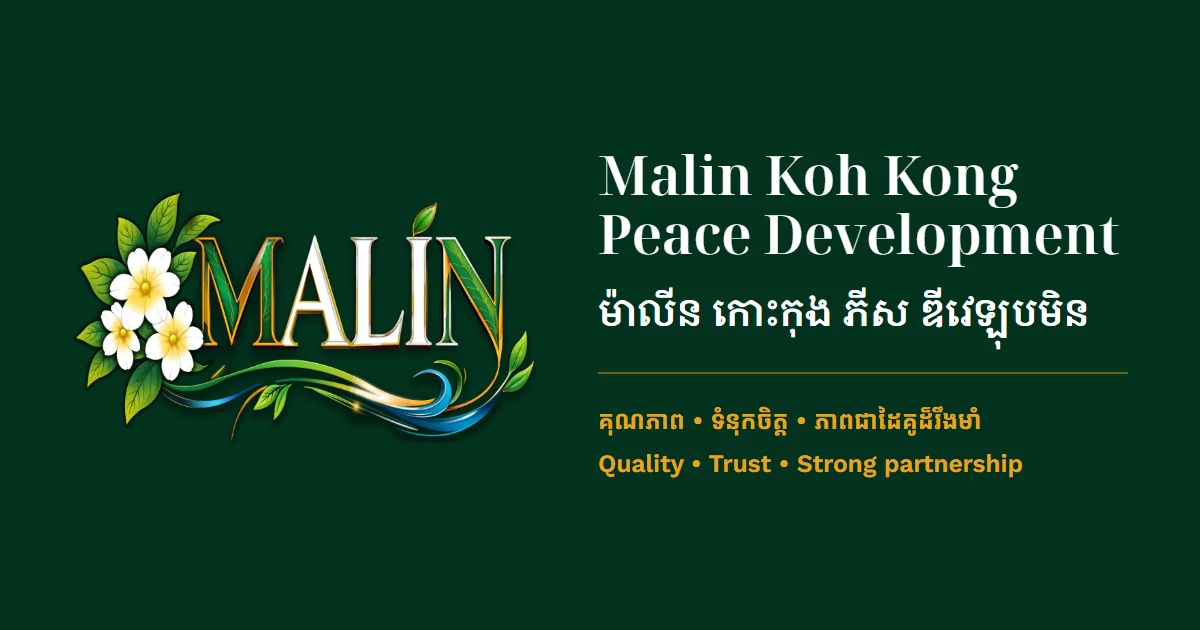
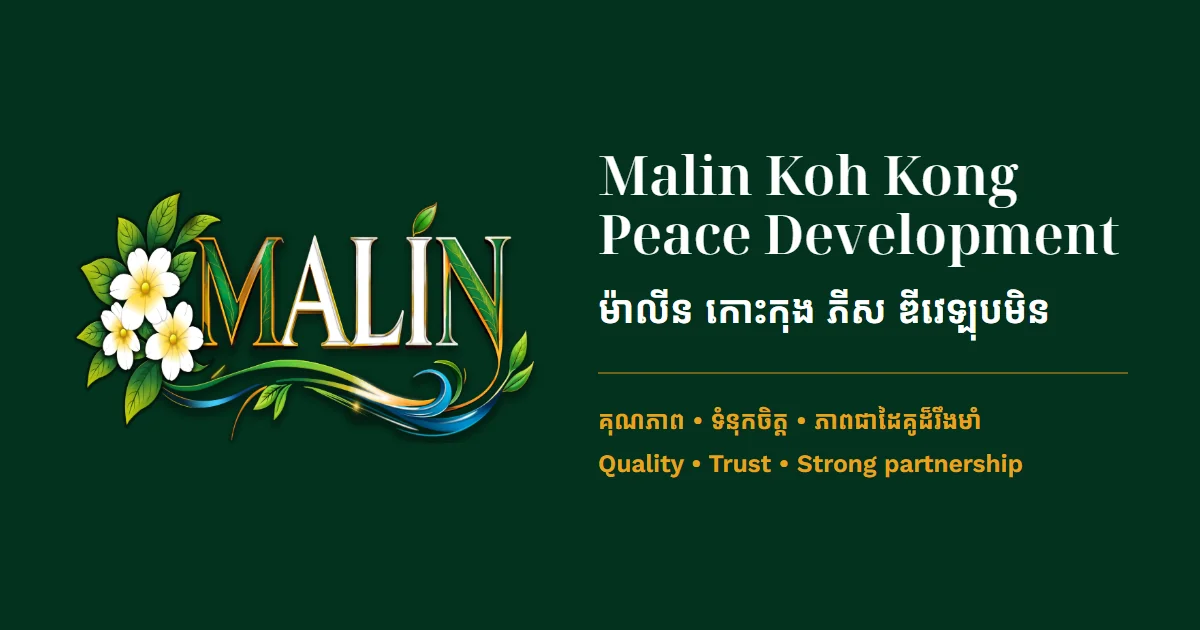
perf: set Khmer headings in Kantumruy Pro
The user's decision: Khmer headings now use Kantumruy Pro, the body font, instead of Noto
Serif Khmer (32 KB), which was the last thing keeping Khmer pages under Lighthouse 95.
Latin headings keep Noto Serif Display. The share card's Khmer name uses the same face.

Lighthouse (mobile), Khmer pages: home 93-94 -> 96, contact 95 -> 99, organisation 95 -> 97.

Changed region(s): [[0.4933, 0.4524, 0.925, 0.5429]]

diff --git a/src/styles/_fonts.scss b/src/styles/_fonts.scss
@@ -23,9 +23,8 @@ $khmer: U+1780-17FF, U+19E0-19FF, U+200C-200D, U+25CC;
 @include face('Kantumruy Pro', 'kantumruy-pro-latin-ext', 400 700, $latin-ext);
 @include face('Kantumruy Pro', 'kantumruy-pro-khmer', 400 700, $khmer);
 
-// Headings only ever use 600, so these are static 600 instances of the variable fonts
+// Latin headings only ever use 600, so these are static 600 instances of the variable font
 // (fontTools instancer): a third of the size. Need another weight? Instance it from the
 // variable font as a new file; don't widen this range.
 @include face('Noto Serif Display', 'noto-serif-display-latin-600', 600, $latin);
 @include face('Noto Serif Display', 'noto-serif-display-latin-ext-600', 600, $latin-ext);
-@include face('Noto Serif Khmer', 'noto-serif-khmer-khmer-600', 600, $khmer);

diff --git a/src/styles/_tokens.scss b/src/styles/_tokens.scss
@@ -17,7 +17,9 @@
   --c-success: #1e6b3a; // form confirmation only (6.6:1 on white)
 
   // Typefaces
-  --font-display: 'Noto Serif Display', 'Noto Serif Khmer', Georgia, 'Times New Roman', serif;
+  // Khmer headings use Kantumruy Pro (as body text): Noto Serif Khmer cost Khmer pages their
+  // Lighthouse 95. Latin headings keep Noto Serif Display.
+  --font-display: 'Noto Serif Display', 'Kantumruy Pro', Georgia, 'Times New Roman', serif;
   --font-body:
     'Kantumruy Pro', system-ui, -apple-system, 'Segoe UI', Roboto, 'Helvetica Neue', Arial,
     sans-serif;

diff --git a/.claude/skills/web-view-angular/SKILL.md b/.claude/skills/web-view-angular/SKILL.md
@@ -226,11 +226,12 @@ already-translated template changes its extracted source (see Languages).
 - Brand colours come from the client's organisation chart: `--c-brand` #03321e (header, hero,
   headings, links, buttons) and `--c-accent` #e9a41c (the logo's gold), **only on `--c-brand`**
   (6.6:1 there, 2.1:1 on white). `--c-error` and `--c-success` are for form feedback only.
-- Typefaces: Noto Serif Display with Noto Serif Khmer for headings, Kantumruy Pro (Latin and
-  Khmer) for body text, all self-hosted. The heading fonts are **static weight-600 instances**
-  (`*-600.woff2`, made with fontTools' instancer) because headings only use 600: a third of
-  the variable fonts' size, worth 3–5 Lighthouse points on Khmer pages. Keep headings at 600;
-  another weight means instancing a new file. Kantumruy Pro stays variable (400 and 600 used).
+- Typefaces: Noto Serif Display for Latin headings; Kantumruy Pro (Latin and Khmer) for body
+  text **and Khmer headings** (the user's decision on 2026-09-24: Noto Serif Khmer kept Khmer pages
+  under Lighthouse 95). All self-hosted. Noto Serif Display is a **static weight-600 instance**
+  (`*-600.woff2`, made with fontTools' instancer) because headings only use 600: a third of the
+  variable font's size. Keep headings at 600; another weight means instancing a new file.
+  Kantumruy Pro stays variable (400 and 600 used).
 - For media queries, `@use 'breakpoints' as bp;` then `@include bp.up(bp.$md) { … }`.
 - No drop shadows or rounded cards. Separate with `--c-mist` bands and `var(--border)` rules.
   No motion; anything added later stops under `prefers-reduced-motion`.
